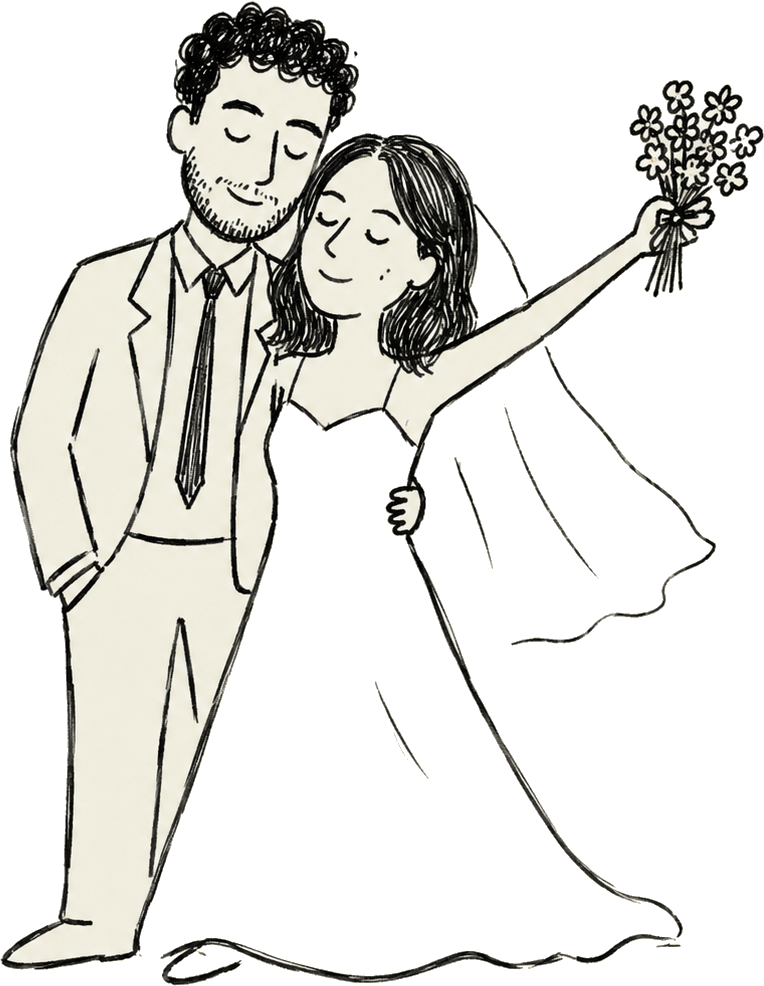
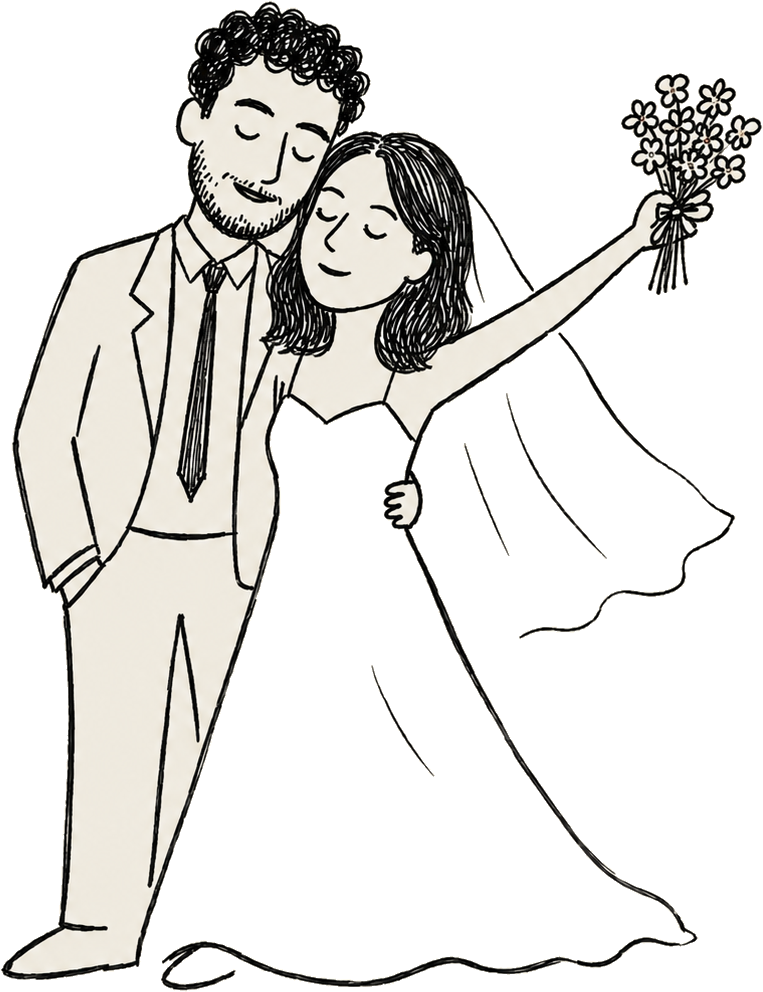
New opening couple; remove hero corners; scroll-to-top on refresh; shrink schedule/note/buttons; marquee two-blues; remove 5 red motifs

diff --git a/styles.css b/styles.css
@@ -181,9 +181,11 @@ main{position:relative;z-index:1;max-width:680px;margin:0 auto;padding:0 24px 40
 .mqtrack{display:flex;width:max-content;animation:mqmove 26s linear infinite}
 .marquee.alt .mqtrack{animation-duration:34s;animation-direction:reverse}
 .mq{display:inline-block;white-space:nowrap;font-family:var(--display);font-weight:400;font-size:1.15rem;letter-spacing:.12em}
-.marquee.alt .mq{color:var(--marigold)}
-.mq i{font-style:normal;color:var(--pink);padding:0 .5em}
-.marquee.alt .mq i{color:var(--aqua)}
+/* both marquees use two blues */
+.marquee .mq{color:var(--blue)}
+.mq i{font-style:normal;color:var(--blue-soft);padding:0 .5em}
+.marquee.alt .mq{color:var(--blue-soft)}
+.marquee.alt .mq i{color:var(--blue)}
 @keyframes mqmove{from{transform:translateX(0)}to{transform:translateX(-50%)}}
 
 /* ---------- sections ---------- */
@@ -222,9 +224,9 @@ section{
 #gifts .btn:hover{background:var(--pink);color:#fff}
 
 .schedule{display:flex;justify-content:center;gap:56px;margin-top:10px}
-.schedule .slot b{font-family:var(--display);font-weight:400;font-size:clamp(2rem,7vw,2.8rem);display:block;line-height:1;color:var(--marigold)}
+.schedule .slot b{font-family:var(--display);font-weight:400;font-size:clamp(1.3rem,4.5vw,1.7rem);display:block;line-height:1;color:var(--marigold)}
 .schedule .slot span{font-size:.8rem;letter-spacing:.22em;text-transform:uppercase;color:var(--marigold);opacity:.85}
-.note{max-width:430px;margin:18px auto 0;color:rgba(79,74,56,.85);font-size:1.02rem}
+.note{max-width:430px;margin:18px auto 0;color:rgba(79,74,56,.85);font-size:.88rem}
 .note .hand{font-family:var(--display);font-weight:400;font-size:1.7rem;color:var(--marigold);letter-spacing:.04em}
 #details .btn{border-color:var(--marigold);color:var(--marigold)}
 #details .btn:hover{background:var(--marigold);color:#fff}
@@ -266,8 +268,8 @@ input:focus,select:focus,textarea:focus{outline:none;border-color:var(--lime);bo
 .choice{flex:1;position:relative}
 .choice input{position:absolute;opacity:0}
 .choice span{
-  display:block;text-align:center;padding:12px;border:1.5px solid rgba(79,74,56,.4);cursor:none;
-  font-weight:600;border-radius:99px;transition:all .2s;
+  display:block;text-align:center;padding:9px;border:1.5px solid rgba(79,74,56,.4);cursor:none;
+  font-weight:600;font-size:.88rem;border-radius:99px;transition:all .2s;
 }
 @media(pointer:coarse){.choice span{cursor:auto}}
 .choice input:checked + span{background:var(--lime);border-color:var(--lime);color:var(--forest)}

diff --git a/assets.js b/assets.js
@@ -36,10 +36,10 @@ const STYLES = {
       'red-disco', 'red-mushroom', 'red-swirl', 'red-monogram', 'red-rose', 'red-bouquet',
       'red-coupe', 'red-cheers', 'red-bow', 'red-heart', 'red-fairy', 'red-candle', 'red-ribbon',
       'red-dove', 'red-cake', 'red-wine-bottle', 'red-grapes', 'red-sprig', 'red-envelope',
-      'red-place-setting', 'red-flower', 'red-cherries', 'red-wreath',
+      'red-cherries', 'red-wreath',
       // sheet 2
-      'red2-00','red2-01','red2-02','red2-03','red2-04','red2-05','red2-06','red2-07',
-      'red2-08','red2-09','red2-10','red2-11','red2-12','red2-13','red2-14','red2-15',
+      'red2-00','red2-01','red2-02','red2-03','red2-05','red2-06','red2-07',
+      'red2-08','red2-09','red2-10','red2-12','red2-14','red2-15',
       'red2-16','red2-17','red2-18','red2-19','red2-20','red2-21','red2-22','red2-23','red2-24',
     ],
     small: ['red-sparkle'],

diff --git a/index.html b/index.html
@@ -10,6 +10,7 @@
 <link rel="preconnect" href="https://fonts.gstatic.com" crossorigin>
 <link href="https://fonts.googleapis.com/css2?family=Suez+One&family=Gveret+Levin+AlefAlefAlef&family=Frank+Ruhl+Libre:wght@300;400;500;700&display=swap" rel="stylesheet">
 <link rel="stylesheet" href="/styles.css">
+<script>if('scrollRestoration' in history) history.scrollRestoration = 'manual'; window.scrollTo(0,0);</script>
 </head>
 <body>
 
@@ -28,8 +29,6 @@
 
 <main>
   <header class="hero">
-    <img class="hero-corner left" src="/assets/watercolor/nm-bouquet.png" alt="" aria-hidden="true">
-    <img class="hero-corner right" src="/assets/watercolor/nm-lavender.png" alt="" aria-hidden="true">
     <img id="heroCouple" class="hero-couple" src="/assets/couple-lineart.png" alt="מיכל ודביר" aria-hidden="true">
     <p class="opening">מתרגשים להזמין אתכם לחתונה שלנו</p>
     <h1 class="names">מיכל <span class="heart" aria-hidden="true">&#x2665;&#xFE0E;</span> דביר</h1>